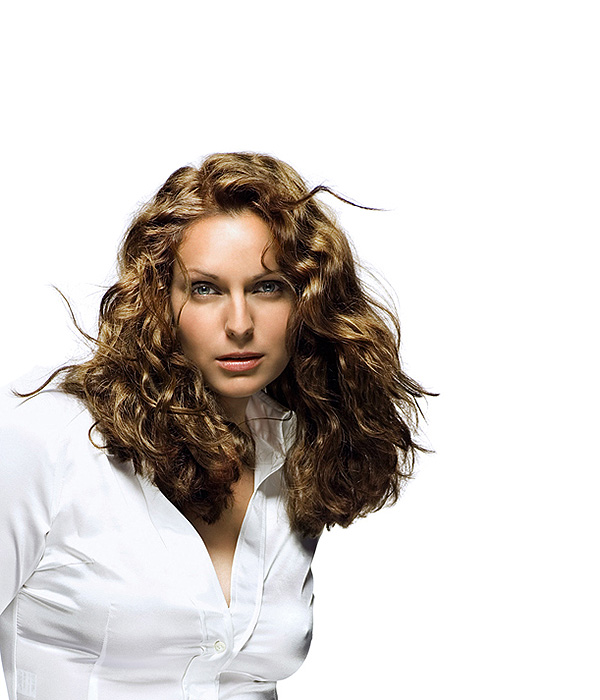
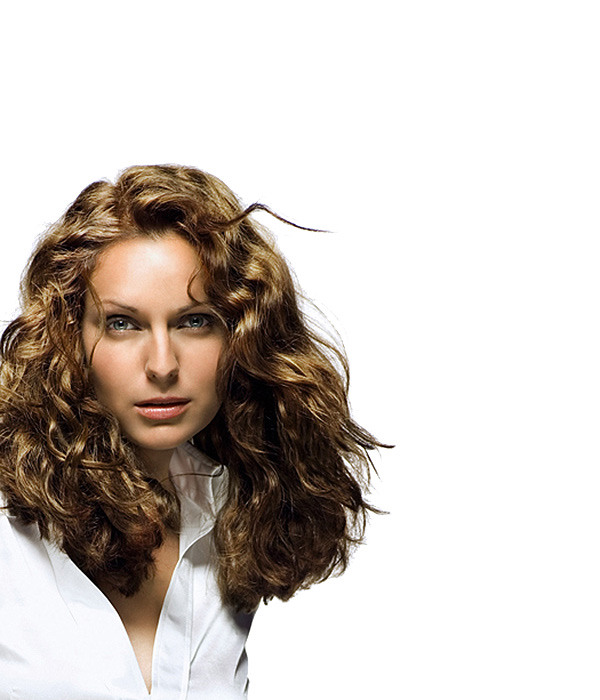
update #image-background style

diff --git a/src/section/Contact.js b/src/section/Contact.js
@@ -5,11 +5,11 @@ import ScrollableAnchor from 'react-scrollable-anchor'
 const ContactSection = () =>
 {
     return (
-        <ScrollableAnchor id={'Contact'}>
+        <ScrollableAnchor id={'contact'}>
             <section>
             <Container className="section-container">
                     <div className="section-container__text">
-                        <h1>Contact section</h1>
+                        <h1>Contact</h1>
                         <p>Occaecat mollit adipisicing ea eu fugiat nulla veniam voluptate nisi velit voluptate. Reprehenderit aliquip est consectetur eiusmod ut id. Dolore eu id ut esse irure laboris velit ex fugiat occaecat Lorem sunt esse. Ut exercitation laboris mollit cupidatat ea aliquip. Sunt anim consequat ullamco reprehenderit eu aliqua laborum nulla adipisicing velit aliqua nostrud aliqua.</p>
 
                         <p>Anim pariatur duis adipisicing ea labore eu et aute consequat dolore laboris mollit consequat. Duis veniam mollit est irure exercitation proident ipsum sint sit nisi laborum mollit officia. Irure adipisicing nostrud dolore fugiat. Ullamco sunt ex ipsum quis incididunt nulla Lorem esse mollit fugiat velit culpa aliquip. Cupidatat sit in laborum est aliqua pariatur cillum commodo ex aute. Amet incididunt voluptate duis Lorem Lorem consectetur mollit cupidatat eu consectetur dolore excepteur adipisicing non. Ad consequat pariatur ad ipsum minim.</p>

diff --git a/src/components/MobileMenu.js b/src/components/MobileMenu.js
@@ -44,11 +44,11 @@ class MobileMenu extends React.Component
                     open={open}
                     onClose={this.handleClose}
                 >
-                    <MenuItem onClick={this.handleClose}><LinkStyle href="#Home">Home</LinkStyle></MenuItem>
-                    <MenuItem onClick={this.handleClose}><LinkStyle href="#Services">Services</LinkStyle></MenuItem>
-                    <MenuItem onClick={this.handleClose}><LinkStyle href="#About">About</LinkStyle></MenuItem>
-                    <MenuItem onClick={this.handleClose}><LinkStyle href="#Gallery">Gallery</LinkStyle></MenuItem>
-                    <MenuItem onClick={this.handleClose}><LinkStyle href="#Contact">Contact</LinkStyle></MenuItem>
+                    <MenuItem onClick={this.handleClose}><LinkStyle href="#home">Home</LinkStyle></MenuItem>
+                    <MenuItem onClick={this.handleClose}><LinkStyle href="#services">Services</LinkStyle></MenuItem>
+                    <MenuItem onClick={this.handleClose}><LinkStyle href="#about">About</LinkStyle></MenuItem>
+                    <MenuItem onClick={this.handleClose}><LinkStyle href="#gallery">Gallery</LinkStyle></MenuItem>
+                    <MenuItem onClick={this.handleClose}><LinkStyle href="#contact">Contact</LinkStyle></MenuItem>
                 </Menu>
             </div>
         )

diff --git a/src/components/Navigation.js b/src/components/Navigation.js
@@ -28,11 +28,11 @@ class Navigation extends React.Component
                 <nav className="col">
                     <MobileMenu />
                     <ul className="wide-menu">
-                        <li><a href="#Home">Home</a></li>
-                        <li><a href="#Services">Services</a></li>
-                        <li><a href="#About">About</a></li>
-                        <li><a href="#Gallery">Gallery</a></li>
-                        <li><a href="#Contact">Contact</a></li>
+                        <li><a href="#home">Home</a></li>
+                        <li><a href="#services">Services</a></li>
+                        <li><a href="#about">About</a></li>
+                        <li><a href="#gallery">Gallery</a></li>
+                        <li><a href="#contact">Contact</a></li>
                     </ul>
                 </nav>
             </AppBar>

diff --git a/src/style/base/mediaQuery.scss b/src/style/base/mediaQuery.scss
@@ -15,11 +15,12 @@
     display: flex;
   }
   #image-background {
-    display: none;
+    display: flex;
   }
 
   section {
     height: calc(100vh -7rem);
+    background-color: rgba(255, 255, 255, 0.85);
   }
 
   footer {
@@ -66,17 +67,21 @@
     display: flex;
   }
 
-  .section-container {
-    justify-content: flex-end;
+  section {
+    background-color: transparent;
 
-    &__text {
-      & h1 {
-        text-align: right;
-      }
-      & p {
-        align-self: flex-end;
-        text-align: right;
-        width: 60%;
+    & .section-container {
+      justify-content: flex-end;
+
+      &__text {
+        & h1 {
+          text-align: right;
+        }
+        & p {
+          align-self: flex-end;
+          text-align: right;
+          width: 60%;
+        }
       }
     }
   }

diff --git a/src/components/Background.js b/src/components/Background.js
@@ -24,10 +24,10 @@ class Background extends React.Component
     {
         return(
             <div id="image-background" style={{background:"linear-gradient(90deg, rgba(228,80,149,1) 0%, rgba(0,0,0,1) 70%)"}}>
-                <div className="col" >
+                <div className="col image" >
                     <img src={this.state.currentImage} alt="Hair Extensions by Dolly: Model" />
                 </div>
-                <div className="col" >
+                <div className="col right" >
                 </div>
             </div>
         )

diff --git a/src/section/Services.js b/src/section/Services.js
@@ -5,7 +5,7 @@ import ScrollableAnchor from 'react-scrollable-anchor'
 const ServicesSection = () =>
 {
     return (
-        <ScrollableAnchor id={'Services'}>
+        <ScrollableAnchor id={'services'}>
             <section>
             <Container className="section-container">
                     <div className="section-container__text">

diff --git a/src/section/Gallery.js b/src/section/Gallery.js
@@ -7,7 +7,7 @@ import ScrollableAnchor from 'react-scrollable-anchor'
 const GallerySection = () =>
 {
     return (
-        <ScrollableAnchor id={'Gallery'}>
+        <ScrollableAnchor id={'gallery'}>
             <section>
             <Container className="section-container" >
                     <div className="section-container__text">

diff --git a/src/section/About.js b/src/section/About.js
@@ -5,7 +5,7 @@ import ScrollableAnchor from 'react-scrollable-anchor'
 const AboutSection = () =>
 {
     return (
-        <ScrollableAnchor id={'About'}>
+        <ScrollableAnchor id={'about'}>
             <section>
             <Container className="section-container">
                     <div className="section-container__text">

diff --git a/src/section/Home.js b/src/section/Home.js
@@ -8,7 +8,7 @@ const HomeSection = () =>
 {
     return (
         
-        <ScrollableAnchor id={'Home'}>
+        <ScrollableAnchor id={'home'}>
             <section>
                 <Container className="section-container">
                     <div className="section-container__text">

diff --git a/src/section/Section.scss b/src/section/Section.scss
@@ -2,10 +2,11 @@ section {
   height: calc(100vh - 7rem);
   margin: 1.4rem 0;
   padding: 0;
+  border-radius: 0.25rem;
 
   & .section-container {
     display: flex;
-    padding: 0;
+    padding: 1rem;
     margin: 0;
 
     & h1 {
